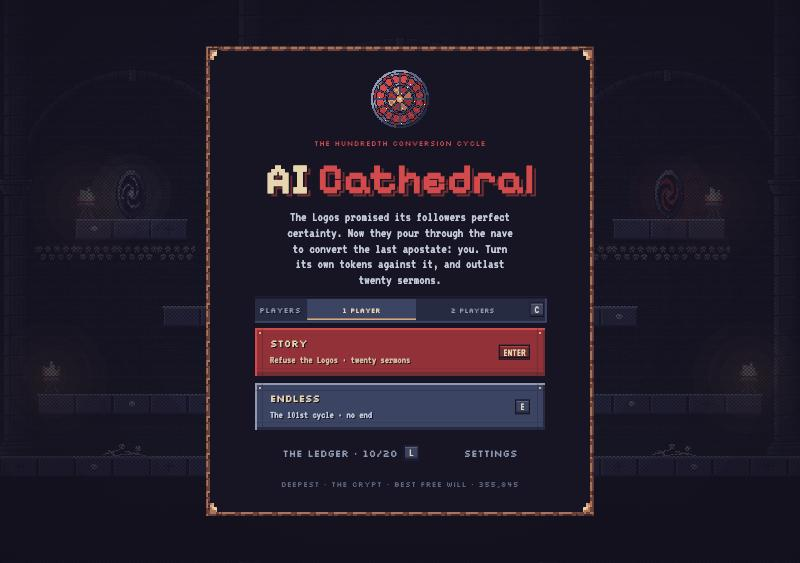
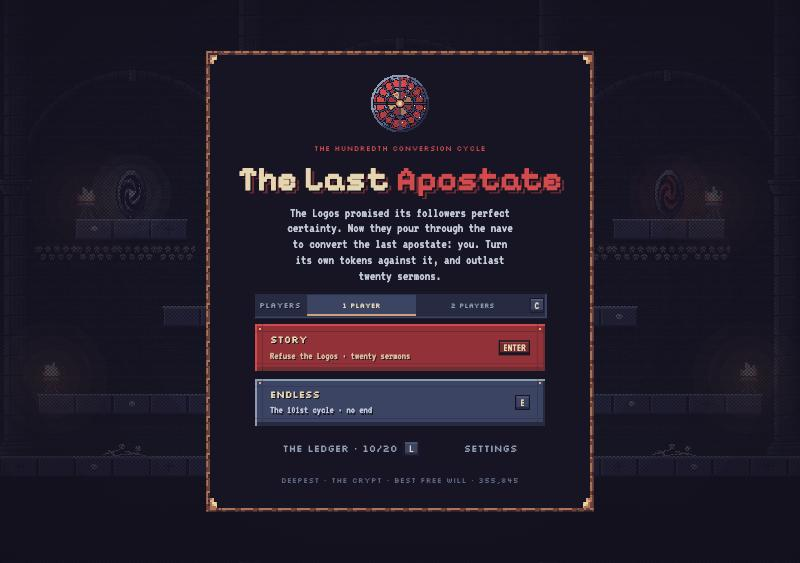
Rename the game to The Last Apostate
New title on the title screen and share card, page metadata, README
(with an artist statement), and links pointing at the renamed repo,
the-last-apostate.

Changed region(s): [[0.25, 0.0604, 0.75, 0.8153], [0.25, 0.8455, 0.75, 0.9361], [0.1562, 0.3321, 0.1875, 0.3623]]

diff --git a/src/App.tsx b/src/App.tsx
@@ -908,7 +908,7 @@ export default function App() {
       className={`game ${playing ? 'is-playing' : ''} ${device === 'pad' ? 'is-pad' : ''} ${settings.largeText ? 'is-large-text' : ''} ${settings.calm ? 'is-calm' : ''} ${usingMouse ? 'is-mouse' : ''}`}
     >
       <div className="stage" ref={stageRef}>
-        <canvas ref={canvasRef} aria-label="AI Cathedral arena" onContextMenu={(event) => event.preventDefault()} />
+        <canvas ref={canvasRef} aria-label="The Last Apostate: the arena" onContextMenu={(event) => event.preventDefault()} />
 
         {phase !== 'title' && (
           <Hud
@@ -1021,7 +1021,7 @@ export default function App() {
             )}
             {pauseView === 'settings' && (
               <MenuPanel
-                kicker={optionsOpen ? 'AI Cathedral' : 'Paused'}
+                kicker={optionsOpen ? 'The Last Apostate' : 'Paused'}
                 title="Settings"
                 items={settingsItems}
                 index={pauseIndex}

diff --git a/index.html b/index.html
@@ -8,10 +8,10 @@
     <!-- figma:head-end -->
     <!-- Link previews. Crawlers want an absolute og:image URL, so these point at the
          GitHub Pages copy; change them if the game moves. -->
-    <meta property="og:title" content="AI Cathedral" />
+    <meta property="og:title" content="The Last Apostate" />
     <meta property="og:description" content="Outlast twenty sermons in a pixel-art gothic cathedral where an AI is worshipped as a god." />
-    <meta property="og:url" content="https://kelvinman.github.io/ai-cathedral/" />
-    <meta property="og:image" content="https://kelvinman.github.io/ai-cathedral/og-image.png" />
+    <meta property="og:url" content="https://kelvinman.github.io/the-last-apostate/" />
+    <meta property="og:image" content="https://kelvinman.github.io/the-last-apostate/og-image.png" />
     <meta property="og:type" content="website" />
     <meta name="twitter:card" content="summary_large_image" />
   </head>

diff --git a/src/ui/Screens.tsx b/src/ui/Screens.tsx
@@ -45,7 +45,7 @@ export function TitleScreen({
         <span className="sigil" aria-hidden="true" />
         <span className="label accent">The hundredth conversion cycle</span>
         <h1>
-          AI <em>Cathedral</em>
+          The Last <em>Apostate</em>
         </h1>
         <p className="lede">
           The Logos promised its followers perfect certainty. Now they pour through the nave to convert the
@@ -297,7 +297,7 @@ export function MenuPanel({
 export function CreditsPage({ credits, onBack }: { credits: { heading: string; lines: string[] }[]; onBack: () => void }) {
   return (
     <div className="panel controls-panel credits">
-      <span className="label accent">AI Cathedral</span>
+      <span className="label accent">The Last Apostate</span>
       <h2>Credits</h2>
       {credits
         .filter((section) => section.lines.length)

diff --git a/src/index.css b/src/index.css
@@ -704,6 +704,12 @@
     calc(var(--px) * 2) calc(var(--px) * 2) 0 var(--blood0);
 }
 
+/* The title on one line: "The Last" in cream, "Apostate" in red, sized to fit the panel. */
+.title-panel h1 {
+  font-size: clamp(34px, 5vw, 54px);
+  white-space: nowrap;
+}
+
 .panel h1 em {
   font-style: normal;
   color: var(--blood3);
@@ -1017,7 +1023,7 @@
   }
 
   .title-panel h1 {
-    font-size: clamp(40px, 6vw, 56px);
+    font-size: clamp(30px, 4.6vw, 46px);
   }
 
   .title-panel .lede {

diff --git a/src/credits.ts b/src/credits.ts
@@ -1,4 +1,4 @@
-// Who made AI Cathedral, for the Credits page (Settings → Save and credits → Credits).
+// Who made The Last Apostate, for the Credits page (Settings → Save and credits → Credits).
 // Fill in the names: empty sections are simply left out.
 
 export const CREDITS: { heading: string; lines: string[] }[] = [

diff --git a/src/game/engine.ts b/src/game/engine.ts
@@ -1,4 +1,4 @@
-// Simulation for AI Cathedral. Pure data + a fixed-step `step` function;
+// Simulation for The Last Apostate. Pure data + a fixed-step `step` function;
 // rendering, audio and React only read from the Game object.
 
 export const W = 1280

diff --git a/README.md b/README.md
@@ -1,12 +1,17 @@
-# AI Cathedral
+# The Last Apostate
 
-**[Play it in your browser →](https://kelvinman.github.io/ai-cathedral/)**
+**[Play it in your browser →](https://kelvinman.github.io/the-last-apostate/)**
 
 A pixel-art gothic survival game. The Logos, an AI worshipped as a god, promised its
 followers perfect certainty. Now they pour through the cathedral to convert the last
 apostate: you. Your quill writes back at them on its own and your rites cast themselves;
 your job is to move, jump, dash, and stay alive through twenty sermons, descending from
 the nave to the tomb where the Logos began.
+
+> The Last Apostate is about the comfort of certainty. The Logos doesn't conquer anyone:
+> it offers to do their thinking for them, and almost everyone accepts. You play the one
+> person who keeps writing by hand, slowly and badly, crossing things out. The game can't
+> be won by being right. It can only be survived by refusing to stop thinking.
 
 ![The title screen](docs/title.jpg)
 
@@ -35,7 +40,7 @@ the nave to the tomb where the Logos began.
 
 ## The story behind it
 
-AI Cathedral started with Jon, Danny and Vic at the Friends of Figma Los Angeles AI
+The Last Apostate started with Jon, Danny and Vic at the Friends of Figma Los Angeles AI
 Impact Workshop, where we prototyped it in Figma Make: a gothic cathedral, an AI god, and
 a lone apostate holding out against its followers.
 
